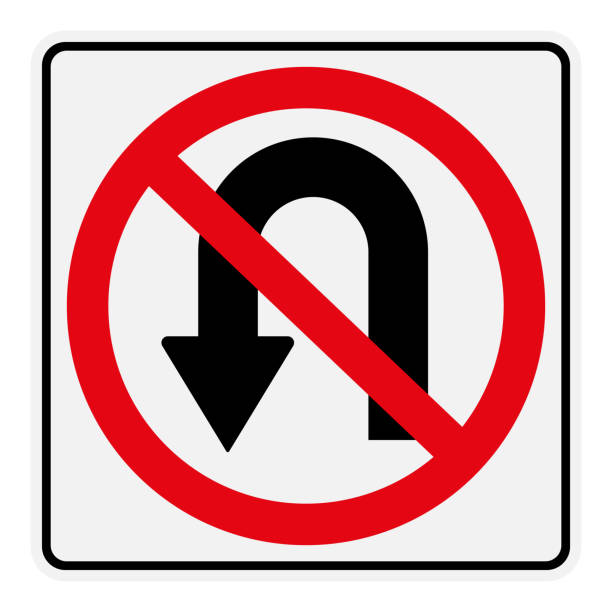
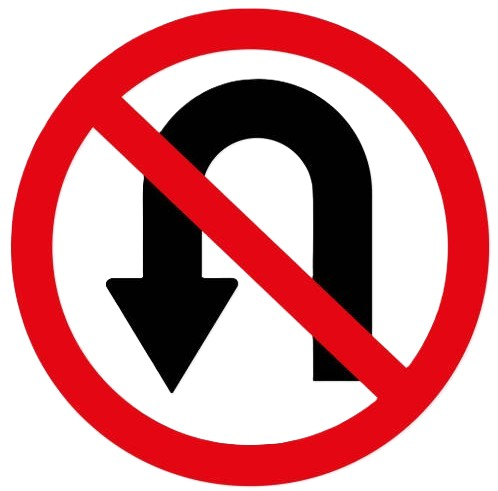
fix images recursos

diff --git a/recursos/recursos.html b/recursos/recursos.html
@@ -37,8 +37,8 @@
   <li>
     <a href="../analisis/analisis.html">ANALISIS</a>
     <ul class="submenu">
-      <li><a href="#consulta1">CONSULTA 1</a></li>
-      <li><a href="#consulta2">CONSULTA 2</a></li>
+      <li><a href="../analisis/analisis.html#consultas">CONSULTAS</a></li>
+      <li><a href="../analisis/analisis.html##descargas">DESCARGAS</a></li>
     </ul>
   </li>
   <li>
@@ -332,7 +332,7 @@ Las señales de tránsito informativas son esenciales para la orientación en la
     <!-- Señal 1: Punto de Información -->
     <div class="card">
         <a href="https://st.depositphotos.com/2131499/3464/v/450/depositphotos_34646607-stock-illustration-tourist-information-sign.jpg" target="_blank">
-            <img src="Punto de informacion.jpg" alt="Punto de Información" class="card__image">
+            <img src="punto de informacion.jpeg" alt="Punto de Información" class="card__image">
             <div class="card__content">
                 <p class="card__title">Punto de Información</p>
                 <p class="card__description">Indica la cercanía de un centro de información turística o de servicios viales.</p>
@@ -343,7 +343,7 @@ Las señales de tránsito informativas son esenciales para la orientación en la
     <!-- Señal 2: Hospital -->
     <div class="card">
         <a href="https://st2.depositphotos.com/4642641/8219/v/450/depositphotos_82195854-stock-illustration-hospital-sign.jpg" target="_blank">
-            <img src="hospitall.jpg" alt="Hospital" class="card__image">
+            <img src="hospital.jpeg" alt="Hospital" class="card__image">
             <div class="card__content">
                 <p class="card__title">Hospital</p>
                 <p class="card__description">Señala la proximidad de un hospital o centro de salud, vital en caso de emergencias médicas.</p>
@@ -354,7 +354,7 @@ Las señales de tránsito informativas son esenciales para la orientación en la
     <!-- Señal 3: Aeropuerto -->
     <div class="card">
         <a href="https://st.depositphotos.com/1431107/2316/v/950/depositphotos_23163740-stock-illustration-airport-vector-sign.jpg" target="_blank">
-            <img src="aeropuerto.jpg" alt="Aeropuerto" class="card__image">
+            <img src="aeropuerto.png" alt="Aeropuerto" class="card__image">
             <div class="card__content">
                 <p class="card__title">Aeropuerto</p>
                 <p class="card__description">Informa que la ruta conduce a un aeropuerto, ayudando a los conductores a llegar a tiempo para sus vuelos.</p>
@@ -365,7 +365,7 @@ Las señales de tránsito informativas son esenciales para la orientación en la
     <!-- Señal 4: Estacionamiento -->
     <div class="card">
         <a href="https://img.freepik.com/vector-premium/senal-estacionamiento-vectorial_940471-1055.jpg?w=2000" target="_blank">
-            <img src="estacionamiento.jpg" alt="Estacionamiento" class="card__image">
+            <img src="estacionamiento.png" alt="Estacionamiento" class="card__image">
             <div class="card__content">
                 <p class="card__title">Estacionamiento</p>
                 <p class="card__description">Indica la ubicación de un área de estacionamiento público disponible.</p>
@@ -376,7 +376,7 @@ Las señales de tránsito informativas son esenciales para la orientación en la
     <!-- Señal 5: Teléfono -->
     <div class="card">
         <a href="https://s3.amazonaws.com/nexu-ghost-blog/2016/Aug/Caseta_telef_nica-1471559329193.png" target="_blank">
-            <img src="telefono.png" alt="Teléfono" class="card__image">
+            <img src="telefono.jpeg" alt="Teléfono" class="card__image">
             <div class="card__content">
                 <p class="card__title">Teléfono</p>
                 <p class="card__description">Señala la ubicación de un teléfono público, útil en áreas sin cobertura de señal móvil.</p>
@@ -387,7 +387,7 @@ Las señales de tránsito informativas son esenciales para la orientación en la
     <!-- Señal 6: Restaurante -->
     <div class="card">
         <a href="https://st.depositphotos.com/30231890/61413/v/450/depositphotos_614132884-stock-illustration-vector-illustration-of-square-traffic.jpg" target="_blank">
-            <img src="restaurante.jpg" alt="Restaurante" class="card__image">
+            <img src="restaurante.jpeg" alt="Restaurante" class="card__image">
             <div class="card__content">
                 <p class="card__title">Restaurante</p>
                 <p class="card__description">Informa a los viajeros sobre la proximidad de un restaurante, ideal para una parada.</p>
@@ -398,7 +398,7 @@ Las señales de tránsito informativas son esenciales para la orientación en la
     <!-- Señal 7: Gasolinera -->
     <div class="card">
         <a href="https://static.vecteezy.com/system/resources/previews/004/209/978/original/fuel-service-station-signal-free-vector.jpg" target="_blank">
-            <img src="gasolinera.jpg" alt="Gasolinera" class="card__image">
+            <img src="gasolinera.jpeg" alt="Gasolinera" class="card__image">
             <div class="card__content">
                 <p class="card__title">Gasolinera</p>
                 <p class="card__description">Indica que hay una estación de servicio cerca para recargar combustible.</p>
@@ -409,7 +409,7 @@ Las señales de tránsito informativas son esenciales para la orientación en la
     <!-- Señal 8: Inicio de Autopista -->
     <div class="card">
         <a href="https://letrerosdeseguridad.cl/tienda/assets/images/carrusel/Inicio-de-autopista-Autovia-IAA-1-01.png" target="_blank">
-            <img src="inicio de autopista.png" alt="Inicio de Autopista" class="card__image">
+            <img src="inicio de autopista.jpeg" alt="Inicio de Autopista" class="card__image">
             <div class="card__content">
                 <p class="card__title">Inicio de Autopista</p>
                 <p class="card__description">Indica el comienzo de una autopista, ayudando a los conductores a prepararse para la vía de alta velocidad.</p>

diff --git a/nosotros/nosotros.html b/nosotros/nosotros.html
@@ -31,14 +31,14 @@
     <ul class="submenu">
       <li><a href="../nosotros/nosotros.html#equipo">Equipo del Proyecto</a></li>
       <li><a href="../nosotros/nosotros.html#front">FRONTEND TEAM</a></li>
-      <li><a href="../nosotros/nosotros.html#end">BACKEND TEAM</a></li> 
+      <li><a href="../nosotros/nosotros.html#end">BACKEND TEAM</a></li>
     </ul>
   </li>
   <li>
     <a href="../analisis/analisis.html">ANALISIS</a>
     <ul class="submenu">
-      <li><a href="#consulta1">CONSULTA 1</a></li>
-      <li><a href="#consulta2">CONSULTA 2</a></li>
+      <li><a href="../analisis/analisis.html#consultas">CONSULTAS</a></li>
+      <li><a href="../analisis/analisis.html##descargas">DESCARGAS</a></li>
     </ul>
   </li>
   <li>

diff --git a/prevenciones/prevenciones.html b/prevenciones/prevenciones.html
@@ -39,8 +39,8 @@
           <li>
             <a href="../analisis/analisis.html">ANALISIS</a>
             <ul class="submenu">
-              <li><a href="#consulta1">CONSULTA 1</a></li>
-              <li><a href="#consulta2">CONSULTA 2</a></li>
+              <li><a href="../analisis/analisis.html#consultas">CONSULTAS</a></li>
+              <li><a href="../analisis/analisis.html##descargas">DESCARGAS</a></li>
             </ul>
           </li>
           <li>

diff --git a/index.html b/index.html
@@ -89,8 +89,8 @@
   <li>
     <a href="analisis/analisis.html">ANALISIS</a>
     <ul class="submenu">
-      <li><a href="#consulta1">CONSULTA 1</a></li>
-      <li><a href="#consulta2">CONSULTA 2</a></li>
+      <li><a href="analisis/analisis.html#consultas">CONSULTAS</a></li>
+      <li><a href="analisis/analisis.html#descargas">DESCARGAS</a></li>
     </ul>
   </li>
   <li>
